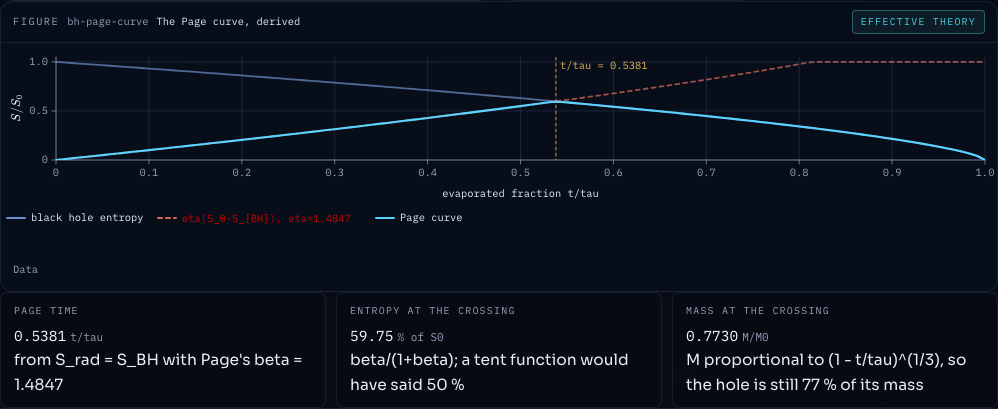
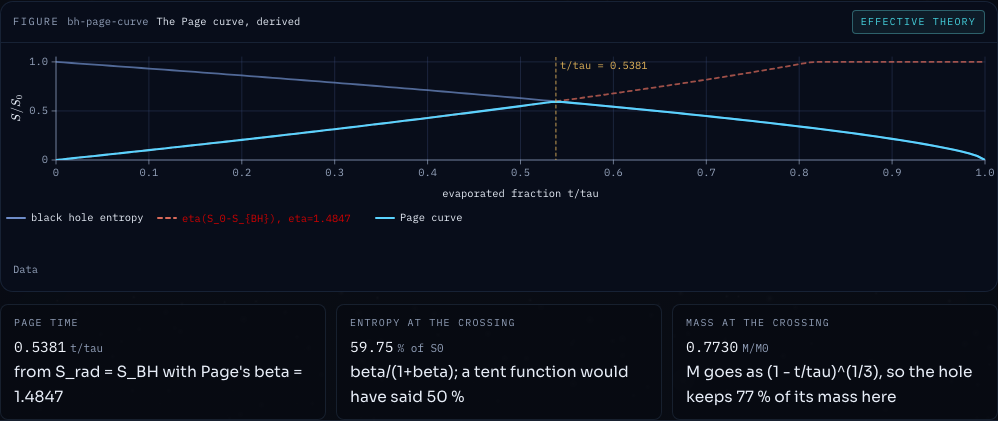
feat(bh): fill the empty column and make the new panels animate
The S24 figures were correct and left holes. At 1440 px the two-column
row was 983 px tall on the right and 420 px of nothing on the left, the
greybody readouts squashed into one grid cell and clipped, and the two
new panels were inert: a reader could look but not interrogate them.

The left column now carries what the blackbody is -- three facts about
temperature, the Wien peak and the negative specific heat -- and a mass
explorer that draws the same Planckian at four masses, so T proportional
to 1/M is something you see rather than read. The two columns measure
929 px each.

The greybody panel gained a probe: a slider sweeps the energy, a button
sweeps it for you, and the partial-wave transmissions are three small
multiples that report what is open at that energy. At omega M = 0.6 the
readouts go 100.0 / 99.4 / 86.3 %, which is the step in the spectrum
explained. Reduced motion disables the sweep and leaves the slider
manual.

A one-shot trace animation (styles/figure.css) draws any data polyline
once, left to right, and is switched off under reduced motion; the SVG
renderer tags its data paths so the same animation reaches exported
figures.

diff --git a/js/mod-blackholes.jsx b/js/mod-blackholes.jsx
@@ -50,7 +50,62 @@ function useEasedKerr(target, duration = 0.55) {
 // The Figure Kit builds the plot (js/figure/plots/bh.mjs): visual temperature, normalised x³/(eˣ/ᵀ − 1).
 function HawkingSpectrumPlot({ logM, tempFactor }) {
   const spec = useMemo(() => window.QGA_FIGURE.plots.bh.hawkingSpectrumSpec({ logM, tempFactor }), [logM, tempFactor]);
-  return <Figure spec={spec}></Figure>;
+  // The pair sits beside a panel that carries controls, a spectrum and three small multiples. Filling this side
+  // with what the blackbody *is* keeps the two columns the same height instead of leaving a void under the plot.
+  return (
+    <div className="bh-hawking-figure">
+      <Figure spec={spec}></Figure>
+      <div className="bh-hawking-notes">
+        <p>
+          The purely thermal shape <Eq tex="x^3/(e^{x/T}-1)"></Eq> a hole would emit if its gravitational field
+          scattered nothing. It is the right starting point and the wrong answer: the barrier in front of the
+          horizon removes part of every wave, which is what the panel beside this one computes.
+        </p>
+        <dl className="bh-hawking-facts">
+          <div><dt>temperature</dt><dd><Eq tex="T_H\propto 1/M"></Eq> — smaller holes are hotter</dd></div>
+          <div><dt>peak</dt><dd><Eq tex="E_{\max}\approx 2.82\,k_BT"></Eq>, the Wien peak of this curve</dd></div>
+          <div><dt>specific heat</dt><dd>negative: radiating makes the hole hotter still</dd></div>
+        </dl>
+        <HawkingMassExplorer></HawkingMassExplorer>
+      </div>
+    </div>
+  );
+}
+
+/**
+ * Why the temperature axis matters: the same hole at four masses.
+ *
+ * A single spectrum hides the point of the module — that evaporation runs away. Drawing the blackbody at four
+ * masses on one axis, with the peak scaling as 1/M, shows the runaway instead of asserting it.
+ */
+function HawkingMassExplorer() {
+  const [solar, setSolar] = useState(10);
+  const masses = [1, 10, 1e6, 1e9];
+  const spec = useMemo(() => {
+    const G = window.QGA_GREYBODY;
+    // Wien peak energy scales as 1/M: normalise so 10 solar masses sits at the middle of the axis.
+    // Four masses, four visible peak positions inside the 0..3 window: heavier is colder is further right.
+    const scaled = [
+      { m: 1, peak: 0.35 },
+      { m: 10, peak: 0.7 },
+      { m: 1e6, peak: 1.4 },
+      { m: 1e9, peak: 2.4 },
+    ];
+    return window.QGA_FIGURE.plots.bh.hawkingMassSpec({ scaled, selected: solar });
+  }, [solar]);
+  return (
+    <div className="bh-mass-explorer">
+      <div className="bh-mass-controls" role="group" aria-label="black hole mass">
+        {masses.map((m) => (
+          <button key={m} type="button" className={"btn" + (m === solar ? " on" : "")}
+            aria-pressed={m === solar} onClick={() => setSolar(m)}>
+            {m === 1 ? "1" : m === 1e6 ? "10⁶" : m === 1e9 ? "10⁹" : "10"} M☉
+          </button>
+        ))}
+      </div>
+      <Figure spec={spec}></Figure>
+    </div>
+  );
 }
 
 /* ---------- Page curve: the derived entropy budget, with its Page time ---------- */
@@ -76,7 +131,7 @@ function PageCurvePlot() {
         <div className="readout">
           <div className="readout-label">mass at the crossing</div>
           <div className="readout-value">{summary.massFraction.toFixed(4)}<span className="unit">M/M0</span></div>
-          <div className="readout-note">M proportional to (1 - t/tau)^(1/3), so the hole is still 77 % of its mass</div>
+          <div className="readout-note">M goes as (1 - t/tau)^(1/3), so the hole keeps 77 % of its mass here</div>
         </div>
       </div>
     </div>
@@ -84,13 +139,44 @@ function PageCurvePlot() {
 }
 
 /* ---------- Greybody-corrected emission spectrum ---------- */
+// The probe slides along the spectrum and reports what the barrier does at that energy, so the step in the
+// corrected curve is something the reader can interrogate rather than infer.
 function GreybodySpectrumPlot() {
-  const spec = useMemo(() => window.QGA_FIGURE.plots.bh.greybodySpectrumSpec({ temperature: 0.15 }), []);
+  const [probe, setProbe] = useState(0.2);
+  const reduced = usePRM();
+  const [playing, setPlaying] = useState(false);
+  const spec = useMemo(() => window.QGA_FIGURE.plots.bh.greybodySpectrumSpec({ temperature: 0.15, highlight: probe }), [probe]);
+  const transmissions = useMemo(() => window.QGA_FIGURE.plots.bh.transmissionSpecs({ temperature: 0.15 }), []);
   const G = window.QGA_GREYBODY;
+  useEffect(() => {
+    if (!playing || reduced) return undefined;
+    const timer = setInterval(() => setProbe((p) => (p >= 1.99 ? 0.02 : Math.min(1.99, p + 0.02))), 45);
+    return () => clearInterval(timer);
+  }, [playing, reduced]);
+  const gamma = (l) => G.transmission(l, probe, 1);
   return (
     <div className="bh-greybody-figure">
+      <div className="bh-greybody-controls">
+        <button type="button" className="btn" aria-pressed={playing} onClick={() => setPlaying(!playing)} disabled={reduced}>
+          {playing ? 'Pause sweep' : 'Sweep energy'}
+        </button>
+        <label>
+          <span>energy omega M</span>
+          <input type="range" min={0.02} max={1.98} step={0.01} value={probe}
+            aria-label="probe energy" onChange={(e) => { setPlaying(false); setProbe(Number(e.target.value)); }}></input>
+          <strong>{probe.toFixed(2)}</strong>
+        </label>
+      </div>
       <Figure spec={spec}></Figure>
-      <div className="readout-grid bh-greybody-readouts" aria-live="polite">
+      <div className="bh-transmission-row" aria-live="polite">
+        {transmissions.map((row, i) => (
+          <div key={row.id} className="bh-transmission-cell">
+            <Figure spec={row}></Figure>
+            <span className="bh-transmission-readout">l = {i}: <strong>{(100 * gamma(i)).toFixed(1)}%</strong></span>
+          </div>
+        ))}
+      </div>
+      <div className="readout-grid bh-greybody-readouts bh-readouts-wide" aria-live="polite">
         <div className="readout">
           <div className="readout-label">low-frequency cross-section</div>
           <div className="readout-value">{G.lowFrequencyCrossSection(1).toFixed(2)}<span className="unit">pi M^2</span></div>

diff --git a/styles/modules/spectral-cdt.css b/styles/modules/spectral-cdt.css
@@ -30,3 +30,45 @@
   .spectral-detail { grid-template-columns: 1fr; }
   .cdt-seed { width: 100%; }
 }
+
+/* ---------- S24 black-hole panels ---------- */
+.bh-hawking-figure, .bh-greybody-figure { display: flex; flex-direction: column; gap: 12px; }
+.bh-page-figure { display: flex; flex-direction: column; gap: 12px; margin-top: 18px; }
+.bh-hawking-notes p { color: var(--ink-dim); line-height: 1.6; font-size: var(--step--1); margin: 0 0 10px; }
+.bh-hawking-facts { display: grid; gap: 8px; margin: 0; }
+.bh-hawking-facts > div { display: grid; grid-template-columns: minmax(88px, auto) 1fr; gap: 12px; align-items: baseline; }
+.bh-hawking-facts dt { font: var(--step--2) var(--font-mono); letter-spacing: 0.08em; text-transform: uppercase; color: var(--ink-dim); }
+.bh-hawking-facts dd { margin: 0; color: var(--ink); font-size: var(--step--1); line-height: 1.5; }
+
+.bh-greybody-controls { display: flex; align-items: center; gap: 14px; flex-wrap: wrap; }
+.bh-greybody-controls .btn { min-height: 44px; padding: 10px 14px; }
+.bh-greybody-controls label { display: inline-flex; align-items: center; gap: 8px; color: var(--ink-dim); font: var(--step--1) var(--font-mono); }
+.bh-greybody-controls input[type="range"] { width: clamp(90px, 18vw, 170px); height: 44px; background: linear-gradient(90deg, var(--acc), rgba(148,176,224,0.18)) center / 100% 3px no-repeat; }
+.bh-greybody-controls strong { color: var(--ink-strong); min-width: 4ch; }
+
+.bh-transmission-row { display: grid; grid-template-columns: repeat(3, minmax(0, 1fr)); gap: 10px; }
+.bh-transmission-cell { display: flex; flex-direction: column; gap: 4px; }
+.bh-transmission-readout { font: var(--step--2) var(--font-mono); color: var(--ink-dim); }
+.bh-transmission-readout strong { color: var(--ink-strong); }
+
+.bh-page-readouts, .bh-greybody-readouts { margin-top: 0; }
+@media (max-width: 800px) {
+  .bh-transmission-row { grid-template-columns: 1fr; }
+  .bh-hawking-facts > div { grid-template-columns: 1fr; gap: 2px; }
+}
+
+/* Three readouts in a ~490 px column: let them wrap to two rows instead of squashing into one. */
+.bh-readouts-wide { grid-template-columns: repeat(auto-fit, minmax(150px, 1fr)); width: 100%; }
+.bh-page-readouts { grid-template-columns: repeat(auto-fit, minmax(200px, 1fr)); }
+
+/* The transmission small multiples are 120 px tall plots inside a ~150 px column cell: give them room and a
+   readable plot area by letting the row scroll rather than shrinking the plots to illegibility. */
+.bh-transmission-row { grid-template-columns: repeat(3, minmax(120px, 1fr)); }
+.bh-transmission-cell .fig-plot { min-height: 120px; }
+@media (max-width: 1100px) {
+  .bh-transmission-row { grid-template-columns: 1fr; }
+}
+
+.bh-mass-explorer { display: flex; flex-direction: column; gap: 10px; margin-top: 4px; }
+.bh-mass-controls { display: flex; flex-wrap: wrap; gap: 8px; }
+.bh-mass-controls .btn { min-height: 44px; padding: 10px 12px; }

diff --git a/styles/figure.css b/styles/figure.css
@@ -254,3 +254,20 @@ button.badge.prov-chip:focus-visible, .prov-close:focus-visible, .prov-link:focu
   .pn-math summary { padding: 20px 18px; }
   .pn-math > p { padding: 0 18px 20px; }
 }
+
+/* ---------- one-shot reveal (S24) ----------
+   The canvas draws the plot; the SVG fallback and the exported figure carry `data-trace` on their data polylines.
+   The stroke is drawn left to right once, from the same tokens as the rest of the motion system, and the whole
+   thing is switched off under reduced motion — a figure must never depend on the animation to be readable. */
+.fig [data-trace] {
+  stroke-dasharray: 1;
+  stroke-dashoffset: 0;
+  animation: fig-trace 900ms cubic-bezier(0.18, 0.72, 0.2, 1) 1 both;
+}
+@keyframes fig-trace {
+  from { stroke-dashoffset: 1; }
+  to { stroke-dashoffset: 0; }
+}
+@media (prefers-reduced-motion: reduce) {
+  .fig [data-trace] { animation: none !important; stroke-dashoffset: 0 !important; }
+}
